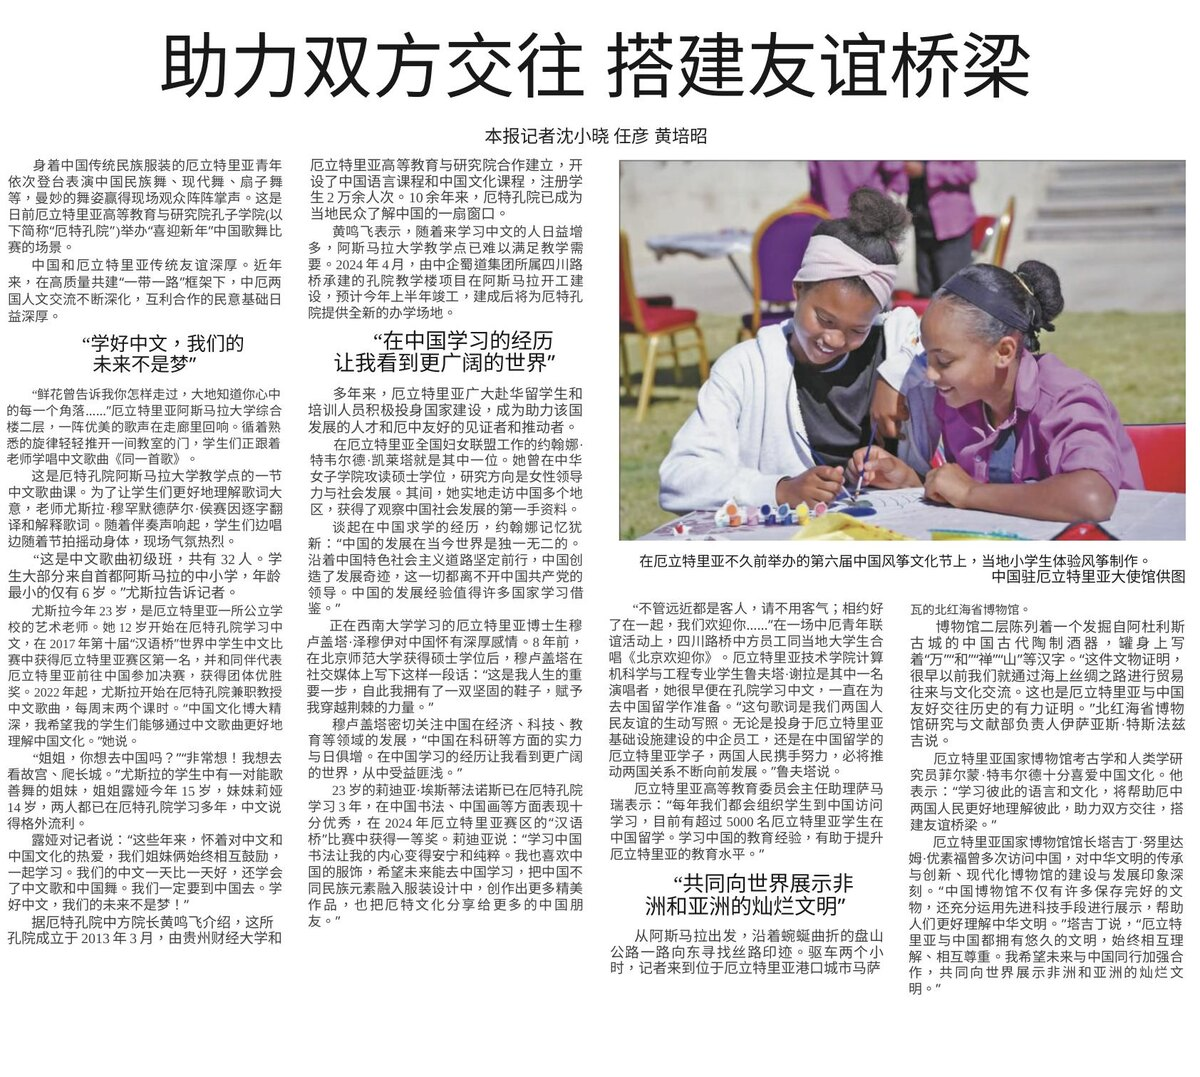
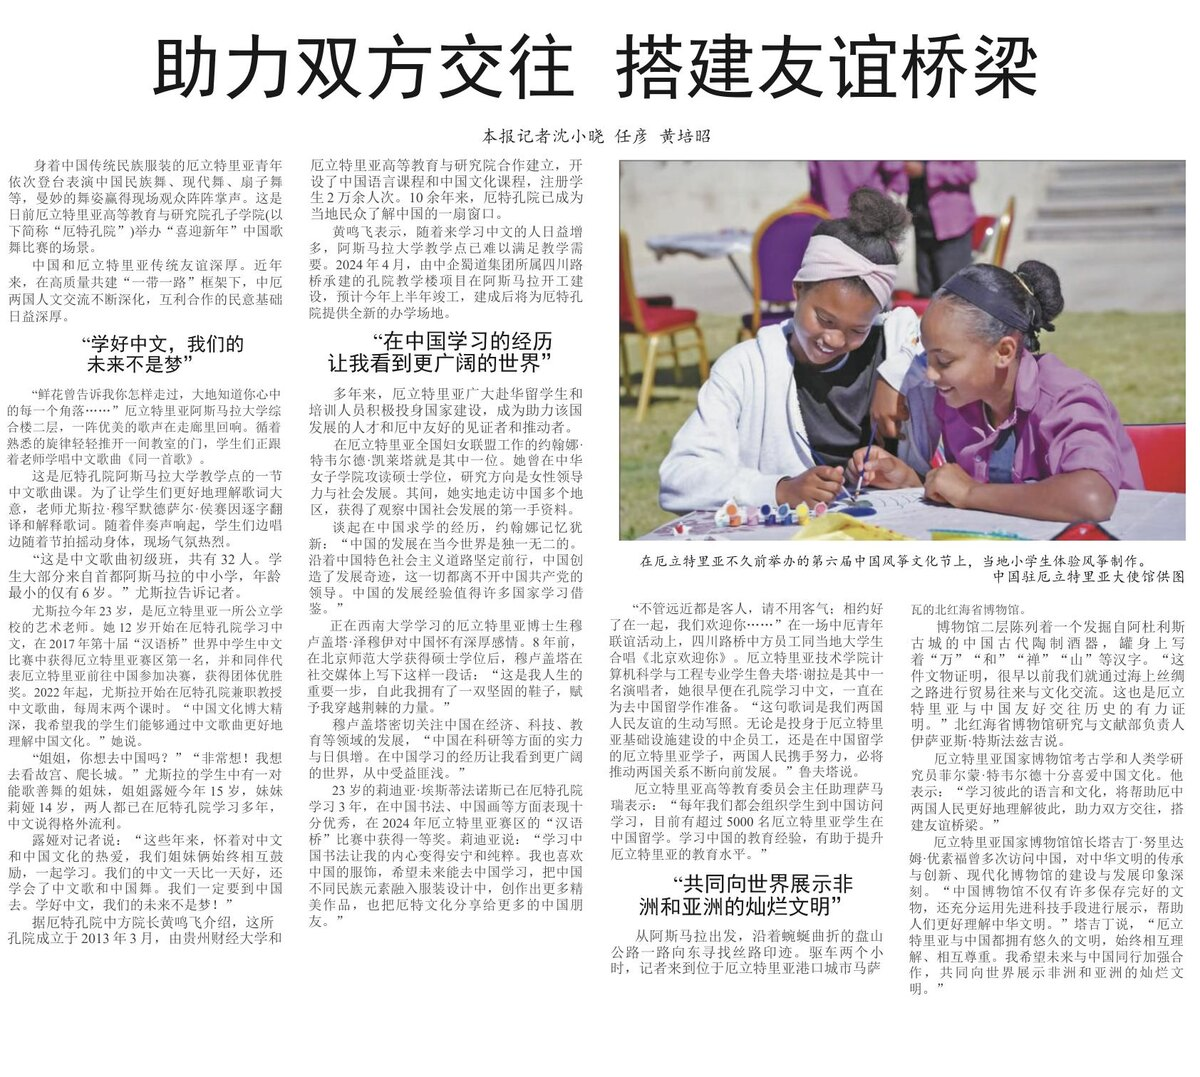
docs: showcase font-aware financial report rendering

Changed region(s): [[0.0, 0.1226, 0.9867, 0.9192], [0.1233, 0.0306, 0.8633, 0.0919]]

diff --git a/README.md b/README.md
@@ -20,11 +20,17 @@
 |:----:|:--------:|:---------:|
 | <img src="doc/assets/readme/docstructbench_01/original.jpg" width="320"> | <img src="doc/assets/readme/docstructbench_01/layout.jpg" width="320"> | <img src="doc/assets/readme/docstructbench_01/rendered.jpg" width="320"> |
 
-### 金融研报：密集双栏、图表和中文样式
+### 金融研报：双栏、图表和四类中文字体
 
 | 原图 | 版面分析 | DOCX 渲染 |
 |:----:|:--------:|:---------:|
-| <img src="doc/assets/readme/eastmoney_02/original.jpg" width="320"> | <img src="doc/assets/readme/eastmoney_02/layout.jpg" width="320"> | <img src="doc/assets/readme/eastmoney_02/rendered.jpg" width="320"> |
+| <img src="doc/assets/readme/eastmoney_01/original.jpg" width="320"> | <img src="doc/assets/readme/eastmoney_01/layout.jpg" width="320"> | <img src="doc/assets/readme/eastmoney_01/rendered.jpg" width="320"> |
+
+该样本的 DOCX 同时包含宋体、黑体、楷体和仿宋。以下局部对照展示标题、栏目标签和正文的字体差异。
+
+| 原图细节 | DOCX 字体还原 |
+|:--------:|:-------------:|
+| <img src="doc/assets/readme/eastmoney_01/font_detail_original.jpg" width="480"> | <img src="doc/assets/readme/eastmoney_01/font_detail_rendered.jpg" width="480"> |
 
 ### 报纸：四栏、跨栏图片和两行图注
 
